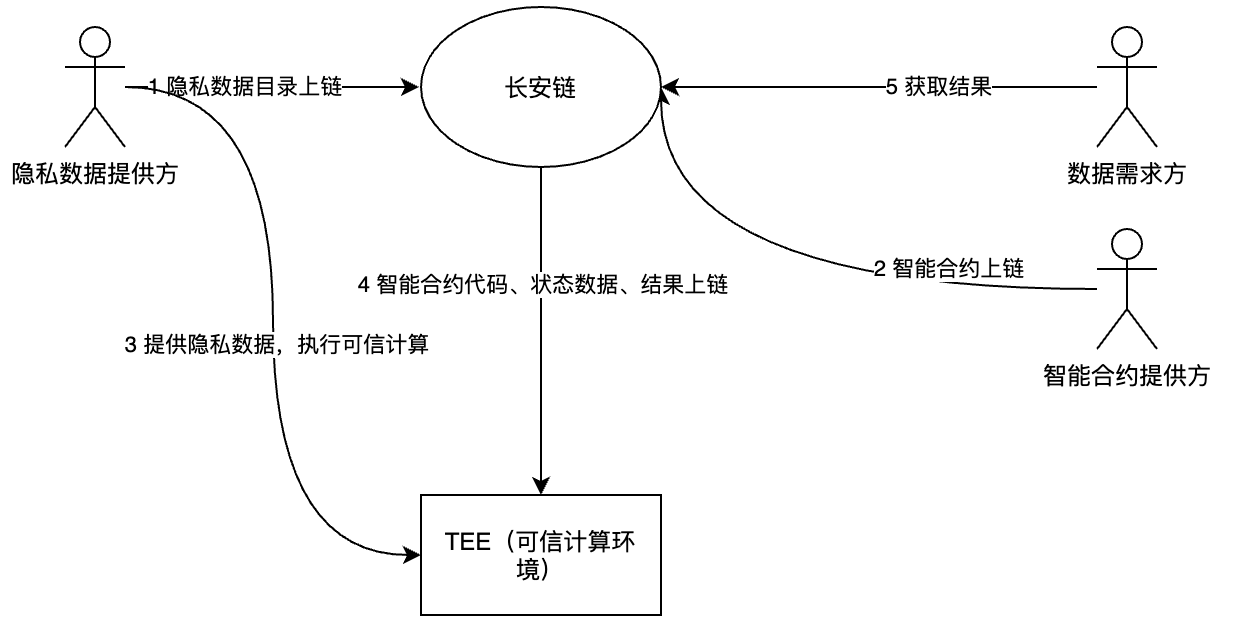
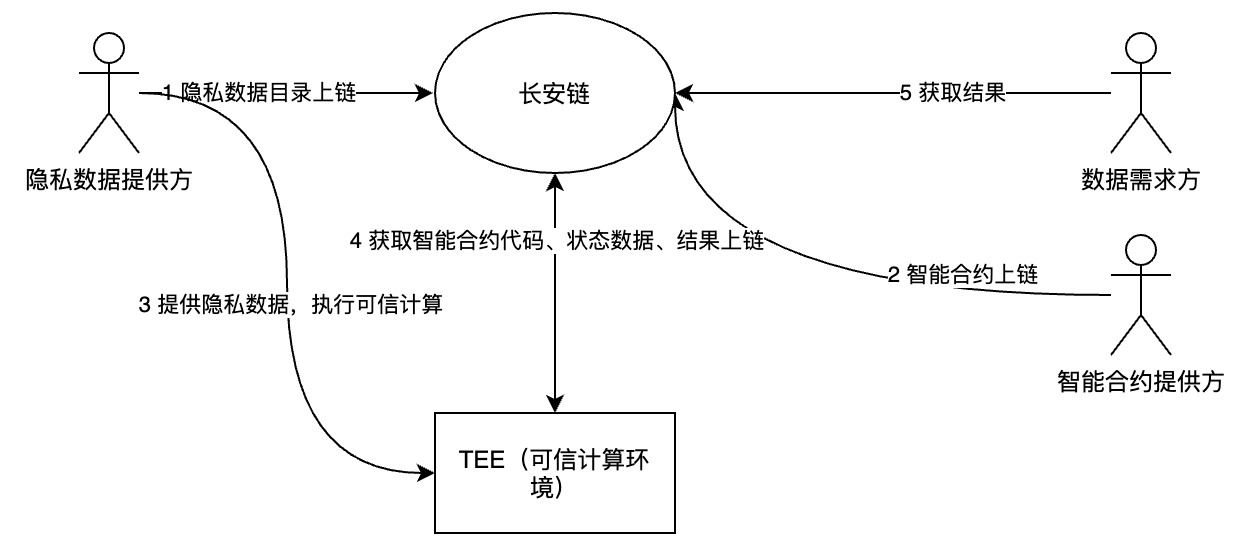
add design doc

diff --git a/design/ChainMaker隐私计算方案.md b/design/ChainMaker隐私计算方案.md
@@ -1,0 +1,93 @@
+[TOC]
+
+# ChainMaker隐私计算方案
+
+## 1 总体方案
+
+![image-20210329144644574](images/ChainMaker可信计算.png)
+
+说明：隐私计算的智能合约包括两个合约，一个是TEE执行的合约，另一个是提供查询以及结果上链功能的合约
+
+## 2 隐私计算执行过程
+
+![image-20210329211622455](images/tee-chain-sequence-after.png)
+
+说明：最终结果的交易提交可以由隐私数据提供者进行，也可以由TEE网关直接提交上链。
+
+
+
+## 3 隐私计算的结果的提交验证
+
+隐私计算的结果在上链时，链需要对执行的输入参数进行校验，以确保输入参数是从链上获取的正确的值。隐私计算的合约在执行过程中可能需要从链上获取多个数据，而在计算的过程中链本身的区块也在增加，因此可能会跨多个区块执行。而跨区块执行会带来如下问题：
+
+- **不可重复读**
+
+  多次从链上获取一个Key值结果不一致
+
+- **幻读**
+
+  同样条件的多次范围查询结果集不一致
+- **合约执行过中输入参数无法校验**
+
+  隐私计算合约输入值由于新区块的产生被覆盖，在提交隐私计算结果上链时无法校验
+
+为了解决这两个问题，在隐私计算上引入事务机制。这两个问题都可以通过事务的隔离级别来解决。
+
+### 3.1 事务的解决的问题
+
+- 脏读
+
+  读取到其他事务的中间值，在其他事务撤消后，此中间值不存在
+
+- 不可重复读
+
+  相同记录多次读取的值不一致
+- 幻读
+
+  多次读取结果集数量不一致
+
+### 3.2 事务的隔离级别
+
+- **READ UNCOMMITED** 
+
+未提交读，事务中的修改即使还没提交，对其他事务是可见的，或者说事务可以读取到尚未提交的事务修改内容，此级别数据库使用写锁实现，读不加锁，写加写锁。
+
+优点：读写并行
+
+缺点是会出现脏读、不可重复读、幻读。
+
+- **READ COMMITED** 
+
+提交读，事务中的修改在提交之后才对其他事务可见，或者说事务只能读取到已经提交的事务修改，此级别数据库使用MVCC+排它锁实现，读取数据使用MVCC，多次读取读出的可能是不同的版本。写数据使用排他锁。
+
+优点：读写并行，没有脏读
+
+缺点：会出现不可重复读、幻读
+
+- **REPEATABLE READ**
+
+可重复读，事务在执行过程中多次读取的值是一致的，此级别数据使用读写锁或者MVCC实现，使用读写锁实现时，读加读锁，写加写锁。这样在同一个事务中，只要读锁不释放，另外一个事务的写锁就只能等待，实现了可重复读。数据库事务默认的隔离级别。使用MVCC实现时，可以实现读写并行，一个事务内的多次读取使用相同的版本号，从而达到可重复读。
+
+优点：可重复读。
+
+缺点：会出现幻读。
+
+- **SERIALIZABLE**
+
+串行执行，数据库使用排它锁实现。
+
+优点：有效避免脏读、不可重复读、幻读问题
+
+缺点：并发量低
+
+- **SNAPSHOT ISOLATION**
+
+快照隔离，实现并行读写，有冲突时首个提交者成功。基于MVCC实现。
+
+优点：避免脏读、不可重复读和幻读问题
+
+缺点：可能执行失败
+
+### 3.3 隐私计算中的隔离级别
+
+在长安链中，由于交易在提交之前，写入的值不会进入存储，因此也不会出现脏读问题，只需要解决幻读和不可重复读的问题。在隐私计算中引入事务后，同时需要兼顾可并发性。在区块链上使用锁会导致较高复杂度，同时也会造成多个交易的顺序执行，所以选择基于MVCC实现的SNAPSHOT ISOLATION隔离级别。
